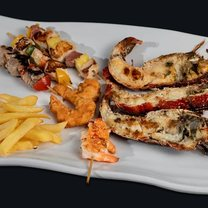
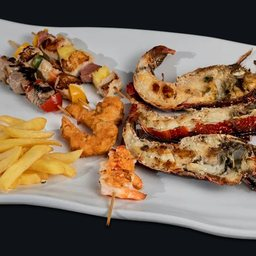
El cuadrado de comida crece a 128px y se ciñe a los bordes
Pedido de Samuel (2026-08-17): «menos aire alrededor, más cerca de los extremos,
que abarque lo máximo posible en altura manteniendo la relación cuadrada, y el
mismo padding arriba, abajo y a la izquierda».

104 -> 128px, que es justo el alto del bloque de texto de al lado: así el
cuadrado llena la caja de arriba abajo sin estirar la maqueta. Medido en el
resultado: caja de 156px = 14 + 128 + 14.

Los tres sangrados de 14px salen de sitios distintos y por eso tienen que
moverse juntos: arriba e izquierda los pone el `pad` del aviso, y el de abajo el
corte que cierra la caja. Para eso nace piezas.corte(alto), que permite ajustar
el aire de cierre de una caja concreta; CORTE sigue siendo el de 22px que usan
las demás.

El JPG se regenera a 256px para mantener los 2x sobre los 128 mostrados.

diff --git a/mails/preview/en/01-reserva-confirmada.html b/mails/preview/en/01-reserva-confirmada.html
@@ -50,8 +50,8 @@
   </table>
   <table role="presentation" width="600" cellpadding="0" cellspacing="0" border="0" class="m-full" style="width:600px;max-width:600px;"><tr><td height="12" style="height:12px;font-size:0;line-height:0;">&nbsp;</td></tr></table>
   <table role="presentation" width="600" cellpadding="0" cellspacing="0" border="0" class="m-full" style="width:600px;max-width:600px;background:#ffffff;border-radius:16px;overflow:hidden;">
-    <tr><td style="padding:22px 32px 0;" class="m-pad"><table role="presentation" width="100%" cellpadding="0" cellspacing="0" border="0"><tr><td class="m-stack" width="120" valign="top" style="width:120px;padding:0 16px 0 0;"><img src="https://hispaniola-ten.vercel.app/mails/menu-plato.jpg" width="104" height="104" alt="" style="display:block;border:0;width:104px;height:104px;border-radius:10px;"></td><td class="m-stack" valign="top" style="font-family:'Helvetica Neue',Helvetica,Arial,sans-serif;"><p style="font-family:'Helvetica Neue',Helvetica,Arial,sans-serif;margin:0 0 5px;font-size:14px;font-weight:600;line-height:1.4;color:#0b2545;">Your menu is still open</p><p style="font-family:'Helvetica Neue',Helvetica,Arial,sans-serif;margin:0 0 11px;font-size:13.5px;line-height:1.6;color:#42525f;">Each guest picks their own dish. You can do it right now, no need to wait for anything.</p><p style="margin:0 0 9px;"><a href="{{menu_link}}" style="font-family:'Helvetica Neue',Helvetica,Arial,sans-serif;font-size:13.5px;font-weight:600;color:#0b6f7c;text-decoration:none;">Choose the menu &rarr;</a></p><p style="font-family:'Helvetica Neue',Helvetica,Arial,sans-serif;margin:0;font-size:12.5px;line-height:1.5;color:#5b6b78;">Until Tuesday 10 March, 08:15<span style="color:#93a7bb;">&nbsp;&middot;&nbsp;</span>48 h before the tour</p></td></tr></table></td></tr>
-    <tr><td style="height:22px;font-size:0;line-height:0;">&nbsp;</td></tr>
+    <tr><td style="padding:14px 28px 0 14px;" class="m-pad"><table role="presentation" width="100%" cellpadding="0" cellspacing="0" border="0"><tr><td class="m-stack" width="144" valign="top" style="width:144px;padding:0 16px 0 0;"><img src="https://hispaniola-ten.vercel.app/mails/menu-plato.jpg" width="128" height="128" alt="" style="display:block;border:0;width:128px;height:128px;border-radius:10px;"></td><td class="m-stack" valign="top" style="font-family:'Helvetica Neue',Helvetica,Arial,sans-serif;"><p style="font-family:'Helvetica Neue',Helvetica,Arial,sans-serif;margin:0 0 5px;font-size:14px;font-weight:600;line-height:1.4;color:#0b2545;">Your menu is still open</p><p style="font-family:'Helvetica Neue',Helvetica,Arial,sans-serif;margin:0 0 11px;font-size:13.5px;line-height:1.6;color:#42525f;">Each guest picks their own dish. You can do it right now, no need to wait for anything.</p><p style="margin:0 0 9px;"><a href="{{menu_link}}" style="font-family:'Helvetica Neue',Helvetica,Arial,sans-serif;font-size:13.5px;font-weight:600;color:#0b6f7c;text-decoration:none;">Choose the menu &rarr;</a></p><p style="font-family:'Helvetica Neue',Helvetica,Arial,sans-serif;margin:0;font-size:12.5px;line-height:1.5;color:#5b6b78;">Until Tuesday 10 March, 08:15<span style="color:#93a7bb;">&nbsp;&middot;&nbsp;</span>48 h before the tour</p></td></tr></table></td></tr>
+    <tr><td style="height:14px;font-size:0;line-height:0;">&nbsp;</td></tr>
   </table>
   <table role="presentation" width="600" cellpadding="0" cellspacing="0" border="0" class="m-full" style="width:600px;max-width:600px;"><tr><td height="12" style="height:12px;font-size:0;line-height:0;">&nbsp;</td></tr></table>
   <table role="presentation" width="600" cellpadding="0" cellspacing="0" border="0" class="m-full" style="width:600px;max-width:600px;background:#ffffff;border-radius:16px;overflow:hidden;">

diff --git a/mails/plantillas/en/01-reserva-confirmada.html b/mails/plantillas/en/01-reserva-confirmada.html
@@ -50,8 +50,8 @@
   </table>
   <table role="presentation" width="600" cellpadding="0" cellspacing="0" border="0" class="m-full" style="width:600px;max-width:600px;"><tr><td height="12" style="height:12px;font-size:0;line-height:0;">&nbsp;</td></tr></table>
   <table role="presentation" width="600" cellpadding="0" cellspacing="0" border="0" class="m-full" style="width:600px;max-width:600px;background:#ffffff;border-radius:16px;overflow:hidden;">
-    <tr><td style="padding:22px 32px 0;" class="m-pad"><table role="presentation" width="100%" cellpadding="0" cellspacing="0" border="0"><tr><td class="m-stack" width="120" valign="top" style="width:120px;padding:0 16px 0 0;"><img src="https://hispaniola-ten.vercel.app/mails/menu-plato.jpg" width="104" height="104" alt="" style="display:block;border:0;width:104px;height:104px;border-radius:10px;"></td><td class="m-stack" valign="top" style="font-family:'Helvetica Neue',Helvetica,Arial,sans-serif;"><p style="font-family:'Helvetica Neue',Helvetica,Arial,sans-serif;margin:0 0 5px;font-size:14px;font-weight:600;line-height:1.4;color:#0b2545;">Your menu is still open</p><p style="font-family:'Helvetica Neue',Helvetica,Arial,sans-serif;margin:0 0 11px;font-size:13.5px;line-height:1.6;color:#42525f;">Each guest picks their own dish. You can do it right now, no need to wait for anything.</p><p style="margin:0 0 9px;"><a href="{{menu_link}}" style="font-family:'Helvetica Neue',Helvetica,Arial,sans-serif;font-size:13.5px;font-weight:600;color:#0b6f7c;text-decoration:none;">Choose the menu &rarr;</a></p><p style="font-family:'Helvetica Neue',Helvetica,Arial,sans-serif;margin:0;font-size:12.5px;line-height:1.5;color:#5b6b78;">Until {{menu_deadline}}<span style="color:#93a7bb;">&nbsp;&middot;&nbsp;</span>48 h before the tour</p></td></tr></table></td></tr>
-    <tr><td style="height:22px;font-size:0;line-height:0;">&nbsp;</td></tr>
+    <tr><td style="padding:14px 28px 0 14px;" class="m-pad"><table role="presentation" width="100%" cellpadding="0" cellspacing="0" border="0"><tr><td class="m-stack" width="144" valign="top" style="width:144px;padding:0 16px 0 0;"><img src="https://hispaniola-ten.vercel.app/mails/menu-plato.jpg" width="128" height="128" alt="" style="display:block;border:0;width:128px;height:128px;border-radius:10px;"></td><td class="m-stack" valign="top" style="font-family:'Helvetica Neue',Helvetica,Arial,sans-serif;"><p style="font-family:'Helvetica Neue',Helvetica,Arial,sans-serif;margin:0 0 5px;font-size:14px;font-weight:600;line-height:1.4;color:#0b2545;">Your menu is still open</p><p style="font-family:'Helvetica Neue',Helvetica,Arial,sans-serif;margin:0 0 11px;font-size:13.5px;line-height:1.6;color:#42525f;">Each guest picks their own dish. You can do it right now, no need to wait for anything.</p><p style="margin:0 0 9px;"><a href="{{menu_link}}" style="font-family:'Helvetica Neue',Helvetica,Arial,sans-serif;font-size:13.5px;font-weight:600;color:#0b6f7c;text-decoration:none;">Choose the menu &rarr;</a></p><p style="font-family:'Helvetica Neue',Helvetica,Arial,sans-serif;margin:0;font-size:12.5px;line-height:1.5;color:#5b6b78;">Until {{menu_deadline}}<span style="color:#93a7bb;">&nbsp;&middot;&nbsp;</span>48 h before the tour</p></td></tr></table></td></tr>
+    <tr><td style="height:14px;font-size:0;line-height:0;">&nbsp;</td></tr>
   </table>
   <table role="presentation" width="600" cellpadding="0" cellspacing="0" border="0" class="m-full" style="width:600px;max-width:600px;"><tr><td height="12" style="height:12px;font-size:0;line-height:0;">&nbsp;</td></tr></table>
   <table role="presentation" width="600" cellpadding="0" cellspacing="0" border="0" class="m-full" style="width:600px;max-width:600px;background:#ffffff;border-radius:16px;overflow:hidden;">

diff --git a/mails/preview/es/01-reserva-confirmada.html b/mails/preview/es/01-reserva-confirmada.html
@@ -50,8 +50,8 @@
   </table>
   <table role="presentation" width="600" cellpadding="0" cellspacing="0" border="0" class="m-full" style="width:600px;max-width:600px;"><tr><td height="12" style="height:12px;font-size:0;line-height:0;">&nbsp;</td></tr></table>
   <table role="presentation" width="600" cellpadding="0" cellspacing="0" border="0" class="m-full" style="width:600px;max-width:600px;background:#ffffff;border-radius:16px;overflow:hidden;">
-    <tr><td style="padding:22px 32px 0;" class="m-pad"><table role="presentation" width="100%" cellpadding="0" cellspacing="0" border="0"><tr><td class="m-stack" width="120" valign="top" style="width:120px;padding:0 16px 0 0;"><img src="https://hispaniola-ten.vercel.app/mails/menu-plato.jpg" width="104" height="104" alt="" style="display:block;border:0;width:104px;height:104px;border-radius:10px;"></td><td class="m-stack" valign="top" style="font-family:'Helvetica Neue',Helvetica,Arial,sans-serif;"><p style="font-family:'Helvetica Neue',Helvetica,Arial,sans-serif;margin:0 0 5px;font-size:14px;font-weight:600;line-height:1.4;color:#0b2545;">Falta elegir el menú</p><p style="font-family:'Helvetica Neue',Helvetica,Arial,sans-serif;margin:0 0 11px;font-size:13.5px;line-height:1.6;color:#42525f;">Cada persona elige su plato. Puedes hacerlo ahora mismo, sin esperar a nada.</p><p style="margin:0 0 9px;"><a href="{{menu_link}}" style="font-family:'Helvetica Neue',Helvetica,Arial,sans-serif;font-size:13.5px;font-weight:600;color:#0b6f7c;text-decoration:none;">Elegir el menú &rarr;</a></p><p style="font-family:'Helvetica Neue',Helvetica,Arial,sans-serif;margin:0;font-size:12.5px;line-height:1.5;color:#5b6b78;">Hasta el martes 10 de marzo, 08:15<span style="color:#93a7bb;">&nbsp;&middot;&nbsp;</span>48 h antes del tour</p></td></tr></table></td></tr>
-    <tr><td style="height:22px;font-size:0;line-height:0;">&nbsp;</td></tr>
+    <tr><td style="padding:14px 28px 0 14px;" class="m-pad"><table role="presentation" width="100%" cellpadding="0" cellspacing="0" border="0"><tr><td class="m-stack" width="144" valign="top" style="width:144px;padding:0 16px 0 0;"><img src="https://hispaniola-ten.vercel.app/mails/menu-plato.jpg" width="128" height="128" alt="" style="display:block;border:0;width:128px;height:128px;border-radius:10px;"></td><td class="m-stack" valign="top" style="font-family:'Helvetica Neue',Helvetica,Arial,sans-serif;"><p style="font-family:'Helvetica Neue',Helvetica,Arial,sans-serif;margin:0 0 5px;font-size:14px;font-weight:600;line-height:1.4;color:#0b2545;">Falta elegir el menú</p><p style="font-family:'Helvetica Neue',Helvetica,Arial,sans-serif;margin:0 0 11px;font-size:13.5px;line-height:1.6;color:#42525f;">Cada persona elige su plato. Puedes hacerlo ahora mismo, sin esperar a nada.</p><p style="margin:0 0 9px;"><a href="{{menu_link}}" style="font-family:'Helvetica Neue',Helvetica,Arial,sans-serif;font-size:13.5px;font-weight:600;color:#0b6f7c;text-decoration:none;">Elegir el menú &rarr;</a></p><p style="font-family:'Helvetica Neue',Helvetica,Arial,sans-serif;margin:0;font-size:12.5px;line-height:1.5;color:#5b6b78;">Hasta el martes 10 de marzo, 08:15<span style="color:#93a7bb;">&nbsp;&middot;&nbsp;</span>48 h antes del tour</p></td></tr></table></td></tr>
+    <tr><td style="height:14px;font-size:0;line-height:0;">&nbsp;</td></tr>
   </table>
   <table role="presentation" width="600" cellpadding="0" cellspacing="0" border="0" class="m-full" style="width:600px;max-width:600px;"><tr><td height="12" style="height:12px;font-size:0;line-height:0;">&nbsp;</td></tr></table>
   <table role="presentation" width="600" cellpadding="0" cellspacing="0" border="0" class="m-full" style="width:600px;max-width:600px;background:#ffffff;border-radius:16px;overflow:hidden;">

diff --git a/mails/plantillas/es/01-reserva-confirmada.html b/mails/plantillas/es/01-reserva-confirmada.html
@@ -50,8 +50,8 @@
   </table>
   <table role="presentation" width="600" cellpadding="0" cellspacing="0" border="0" class="m-full" style="width:600px;max-width:600px;"><tr><td height="12" style="height:12px;font-size:0;line-height:0;">&nbsp;</td></tr></table>
   <table role="presentation" width="600" cellpadding="0" cellspacing="0" border="0" class="m-full" style="width:600px;max-width:600px;background:#ffffff;border-radius:16px;overflow:hidden;">
-    <tr><td style="padding:22px 32px 0;" class="m-pad"><table role="presentation" width="100%" cellpadding="0" cellspacing="0" border="0"><tr><td class="m-stack" width="120" valign="top" style="width:120px;padding:0 16px 0 0;"><img src="https://hispaniola-ten.vercel.app/mails/menu-plato.jpg" width="104" height="104" alt="" style="display:block;border:0;width:104px;height:104px;border-radius:10px;"></td><td class="m-stack" valign="top" style="font-family:'Helvetica Neue',Helvetica,Arial,sans-serif;"><p style="font-family:'Helvetica Neue',Helvetica,Arial,sans-serif;margin:0 0 5px;font-size:14px;font-weight:600;line-height:1.4;color:#0b2545;">Falta elegir el menú</p><p style="font-family:'Helvetica Neue',Helvetica,Arial,sans-serif;margin:0 0 11px;font-size:13.5px;line-height:1.6;color:#42525f;">Cada persona elige su plato. Puedes hacerlo ahora mismo, sin esperar a nada.</p><p style="margin:0 0 9px;"><a href="{{menu_link}}" style="font-family:'Helvetica Neue',Helvetica,Arial,sans-serif;font-size:13.5px;font-weight:600;color:#0b6f7c;text-decoration:none;">Elegir el menú &rarr;</a></p><p style="font-family:'Helvetica Neue',Helvetica,Arial,sans-serif;margin:0;font-size:12.5px;line-height:1.5;color:#5b6b78;">Hasta el {{menu_deadline}}<span style="color:#93a7bb;">&nbsp;&middot;&nbsp;</span>48 h antes del tour</p></td></tr></table></td></tr>
-    <tr><td style="height:22px;font-size:0;line-height:0;">&nbsp;</td></tr>
+    <tr><td style="padding:14px 28px 0 14px;" class="m-pad"><table role="presentation" width="100%" cellpadding="0" cellspacing="0" border="0"><tr><td class="m-stack" width="144" valign="top" style="width:144px;padding:0 16px 0 0;"><img src="https://hispaniola-ten.vercel.app/mails/menu-plato.jpg" width="128" height="128" alt="" style="display:block;border:0;width:128px;height:128px;border-radius:10px;"></td><td class="m-stack" valign="top" style="font-family:'Helvetica Neue',Helvetica,Arial,sans-serif;"><p style="font-family:'Helvetica Neue',Helvetica,Arial,sans-serif;margin:0 0 5px;font-size:14px;font-weight:600;line-height:1.4;color:#0b2545;">Falta elegir el menú</p><p style="font-family:'Helvetica Neue',Helvetica,Arial,sans-serif;margin:0 0 11px;font-size:13.5px;line-height:1.6;color:#42525f;">Cada persona elige su plato. Puedes hacerlo ahora mismo, sin esperar a nada.</p><p style="margin:0 0 9px;"><a href="{{menu_link}}" style="font-family:'Helvetica Neue',Helvetica,Arial,sans-serif;font-size:13.5px;font-weight:600;color:#0b6f7c;text-decoration:none;">Elegir el menú &rarr;</a></p><p style="font-family:'Helvetica Neue',Helvetica,Arial,sans-serif;margin:0;font-size:12.5px;line-height:1.5;color:#5b6b78;">Hasta el {{menu_deadline}}<span style="color:#93a7bb;">&nbsp;&middot;&nbsp;</span>48 h antes del tour</p></td></tr></table></td></tr>
+    <tr><td style="height:14px;font-size:0;line-height:0;">&nbsp;</td></tr>
   </table>
   <table role="presentation" width="600" cellpadding="0" cellspacing="0" border="0" class="m-full" style="width:600px;max-width:600px;"><tr><td height="12" style="height:12px;font-size:0;line-height:0;">&nbsp;</td></tr></table>
   <table role="presentation" width="600" cellpadding="0" cellspacing="0" border="0" class="m-full" style="width:600px;max-width:600px;background:#ffffff;border-radius:16px;overflow:hidden;">

diff --git a/mails/piezas.py b/mails/piezas.py
@@ -18,6 +18,8 @@ Reglas que NO se rompen aqui:
     romper nada.
 """
 
+import re
+
 HOST = "https://hispaniola-ten.vercel.app/mails"
 
 # Espejo de app/src/styles/tokens.css. Mismos nombres para que el traspaso a
@@ -86,7 +88,18 @@ def aire(alto=28):
 # más visualmente los elementos y la importancia de las cosas»]
 # Marcador que parte el correo en cajas blancas independientes. Un correo sin
 # CORTE sigue saliendo como una sola caja, así que los otros diez no se enteran.
-CORTE = "\x00CORTE\x00"
+CORTE = "\x00CORTE:22\x00"
+
+
+def corte(aire_final=22):
+    """Corte con aire de cierre a medida.
+
+    El aire va al FINAL de la caja que se acaba de cerrar. Hace falta poder
+    ajustarlo cuando el contenido de una caja pide un sangrado propio: el aviso
+    del menu lleva 14px arriba y a la izquierda, asi que su caja tiene que
+    cerrar con esos mismos 14 y no con los 22 de las demas.
+    """
+    return "\x00CORTE:%d\x00" % aire_final
 
 # Hueco entre cajas. Los mismos 12px del aire lateral de la foto y del pie: en
 # este sistema las superficies respiran a 12 y el texto sangra a 32.
@@ -395,14 +408,20 @@ def aviso(titulo, cuerpo, enlace=None, pie_texto=None, tono="aqua", pad="22px 32
     # el mismo trabajo dos veces.
     if tono == "ninguno":
         if imagen:
-            # Cuadrado a la izquierda y texto a la derecha. En movil la columna
-            # de la imagen se apila (.m-stack): a 375px dejaria el texto en
-            # ~187px y el aviso crecia hasta tres veces su alto.
+            # [2026-08-17, Samuel: «menos aire alrededor, más cerca de los
+            # extremos, que abarque lo máximo en altura manteniendo el cuadrado,
+            # y el mismo padding arriba, abajo y a la izquierda»]
+            # 128px es la altura del bloque de texto de al lado, asi que el
+            # cuadrado llena la caja de arriba abajo sin estirar la maqueta. Los
+            # 14px de sangrado arriba/izquierda los pone `pad`, y los de abajo
+            # el corte que cierra esta caja: los tres tienen que moverse juntos.
+            # En movil la columna se apila (.m-stack): a 375px dejaba el texto
+            # en ~187px y el aviso crecia hasta tres veces su alto.
             return seccion(
                 '<table role="presentation" width="100%%" cellpadding="0" cellspacing="0" border="0"><tr>'
-                '<td class="m-stack" width="120" valign="top" style="width:120px;padding:0 16px 0 0;">'
-                '<img src="%s/%s" width="104" height="104" alt="" style="display:block;border:0;'
-                'width:104px;height:104px;border-radius:10px;"></td>'
+                '<td class="m-stack" width="144" valign="top" style="width:144px;padding:0 16px 0 0;">'
+                '<img src="%s/%s" width="128" height="128" alt="" style="display:block;border:0;'
+                'width:128px;height:128px;border-radius:10px;"></td>'
                 '<td class="m-stack" valign="top" style="%s">%s</td>'
                 "</tr></table>" % (HOST, imagen, _f(), html),
                 pad=pad,
@@ -695,10 +714,12 @@ HUECO = ('  <table role="presentation" width="600" cellpadding="0" cellspacing="
 def documento(idioma, asunto, preheader, filas):
     """Monta el documento. Si `filas` trae marcadores CORTE, el correo sale
     partido en varias cajas blancas con hueco entre ellas; si no, en una sola."""
-    bloques, actual = [], []
+    bloques, actual, cierres = [], [], []
     for f in filas:
-        if f == CORTE:
+        m = re.match(r"^\x00CORTE:(\d+)\x00$", f)
+        if m:
             bloques.append(actual)
+            cierres.append(int(m.group(1)))
             actual = []
         else:
             actual.append(f)
@@ -712,8 +733,8 @@ def documento(idioma, asunto, preheader, filas):
         partes += ["    " + f for f in bloque]
         # Cada caja se cierra con su propio aire: antes ese hueco lo daba el
         # bloque siguiente, y al partir el correo se quedaria pegado al borde.
-        if i < len(bloques) - 1:
-            partes.append("    " + aire(22))
+        if i < len(bloques) - 1 and cierres[i]:
+            partes.append("    " + aire(cierres[i]))
         partes.append(CAJA_FIN)
 
     return DOC.format(

diff --git a/mails/contenido.py b/mails/contenido.py
@@ -139,9 +139,10 @@ def m01(t, c, idioma):
         # espera de que Samuel lo apruebe.
         p.CORTE,
         # Condicional: solo si el menu quedo aplazado.
+        # 14px arriba y a la izquierda; el mismo 14 abajo lo pone el corte.
         p.aviso(t["av_titulo"], t["av_cuerpo"], (t["av_enlace"], "{{menu_link}}"), t["av_pie"],
-                tono="ninguno", imagen="menu-plato.jpg"),
-        p.CORTE,
+                tono="ninguno", imagen="menu-plato.jpg", pad="14px 28px 0 14px"),
+        p.corte(14),
         p.timeline(t["t_titulo"], [
             (t["t1_cuando"], t["t1_que"]), (t["t2_cuando"], t["t2_que"]), (t["t3_cuando"], t["t3_que"]),
         ]),
